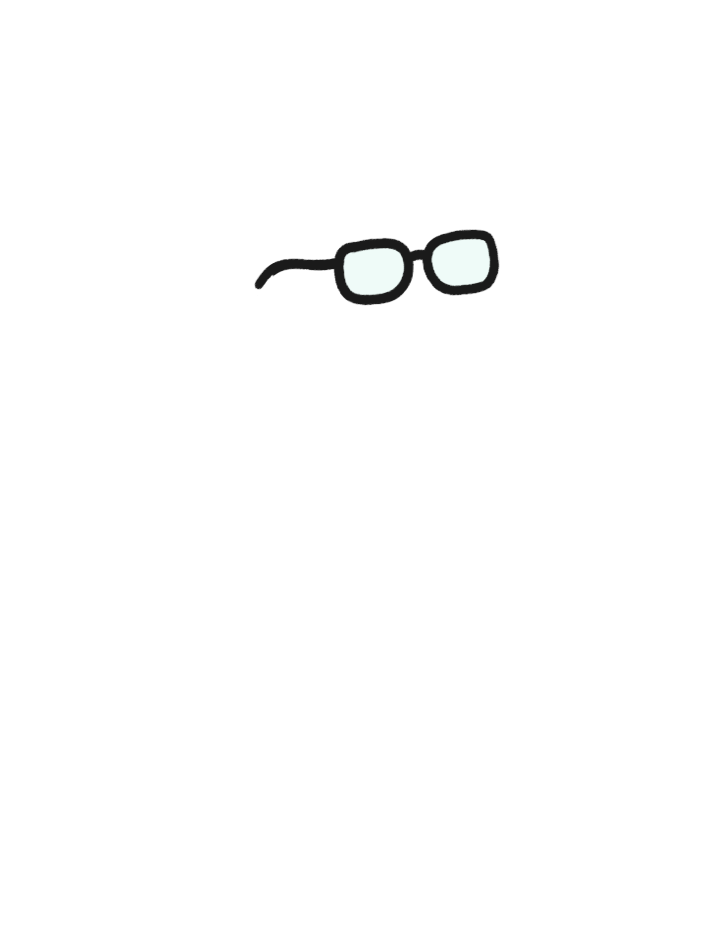
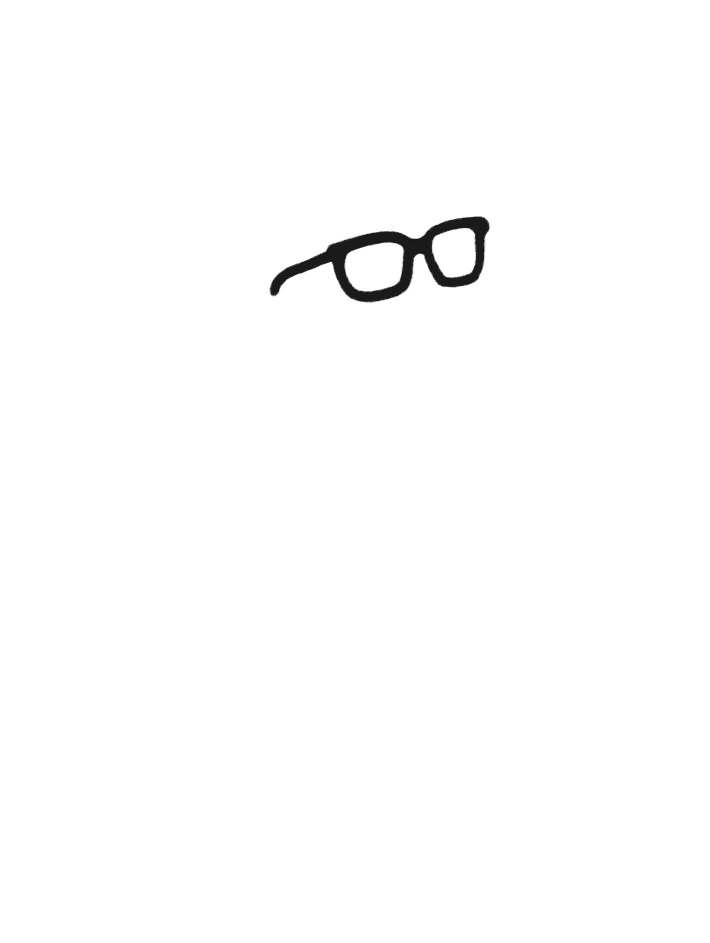
add glasses colors

Changed region(s): [[0.3408, 0.2153, 0.7127, 0.3383]]

diff --git a/src/components/stick-generator/StickGen.svelte b/src/components/stick-generator/StickGen.svelte
@@ -68,18 +68,23 @@ async function draw(Draw, props){
 
   const [
     headMask,
+    glassesMask,
     longbeardMask,
     hairFrontMask,
     hairBackMask,
     hatMask
   ] = await Promise.all([
     loadImage(getMaskFile(allHeads[0])),
+    loadImage(getMaskFile(props.glasses)),
     loadImage(getMaskFile(props.longbeardStyle)),
     loadImage(getMaskFile(hairStyleFront)),
     loadImage(getMaskFile(hairStyleBack)),
     loadImage(getMaskFile(props.hat)),
   ])
 
+  const { canvas: glassesColor}  = offscreenCanvas(width, height, (ctx) => {
+    drawColorMask(ctx, glassesMask, props.glassesColor)
+  })
   const { canvas: skinColor}  = offscreenCanvas(width, height, (ctx) => {
     drawColorMask(ctx, headMask, props.skinColor)
   })
@@ -116,6 +121,7 @@ async function draw(Draw, props){
     longbeard,
     hairFrontColor,
     hairFront,
+    glassesColor,
     glasses,
     accessory,
     hatColor,
@@ -145,6 +151,7 @@ let longbeardStyle
 let mustacheStyle
 let facialHairColor
 let glasses
+let glassesColor
 let accessory
 let customImage
 let customImageLayerIndex = 0
@@ -163,6 +170,7 @@ const reset = () => {
   mustacheStyle = undefined
   facialHairColor = transparent
   glasses = undefined
+  glassesColor = transparent
   accessory = undefined
   customImage = undefined
   customImageLayerIndex = 0
@@ -215,6 +223,7 @@ $: (async (ready, dataEntry, StickAssets) => {
       mustacheStyle,
       facialHairColor,
       glasses,
+      glassesColor,
       accessory,
       customImage,
       customImageLayerIndex
@@ -336,6 +345,7 @@ onMount(async () => {
       <div class="stick-option">
         <h3>Glasses</h3>
         <ImageSelector cropped bind:selected={glasses} images={StickAssets.glasses.value}/>
+        <ColorSelector bind:selected={glassesColor} colors={StickAssets.glassesColors}/>
       </div>
     </AssetUpload>
     <AssetUpload category="Accessories" onUpload={() => refreshAssets('accessories')}>

diff --git a/src/lib/stick-assets.ts b/src/lib/stick-assets.ts
@@ -84,6 +84,7 @@ const hatColors = [
   '#4D4D4C',
   '#E4E4E3',
 ]
+const glassesColors = hatColors
 const mockBase = `${base}/stick-assets`
 const bodies = fileList(`${mockBase}/Bodies/body`)
 const heads = fileList(`${mockBase}/Heads/head`)
@@ -176,6 +177,8 @@ const Assets = {
   longbeardStyles: createLoader(() => fetchList(basePath, 'Facial Hairs', 'longbeard')),
   facialHairColors: facialHairColors,
   glasses: createLoader(() => fetchList(basePath, 'Glasses', 'glasses')),
+  glassesMasks: createLoader(() => fetchList(basePath, 'Glasses', 'maskglasses')),
+  glassesColors: glassesColors,
   accessories: createLoader(() => fetchList(basePath, 'Accessories', 'accessory')),
   hats: createLoader(() => fetchList(basePath, 'Hats', 'hat')),
   hatMasks: createLoader(() => fetchList(basePath, 'Hats', 'maskhat')),

diff --git a/functions/api/assets/[[assetpath]].ts b/functions/api/assets/[[assetpath]].ts
@@ -14,7 +14,7 @@ const mockList = {
     'hair-02b.png'
   ]),
   'Facial Hairs': fileList('beard').concat(fileList('mustache'), fileList('longbeard')),
-  Glasses: fileList('glasses', 2),
+  Glasses: fileList('glasses', 5).concat(fileList('maskglasses', 5)),
   Accessories: fileList('accessory', 3),
   Hats: fileList('hat').concat(fileList('maskhat', 3))
 }
